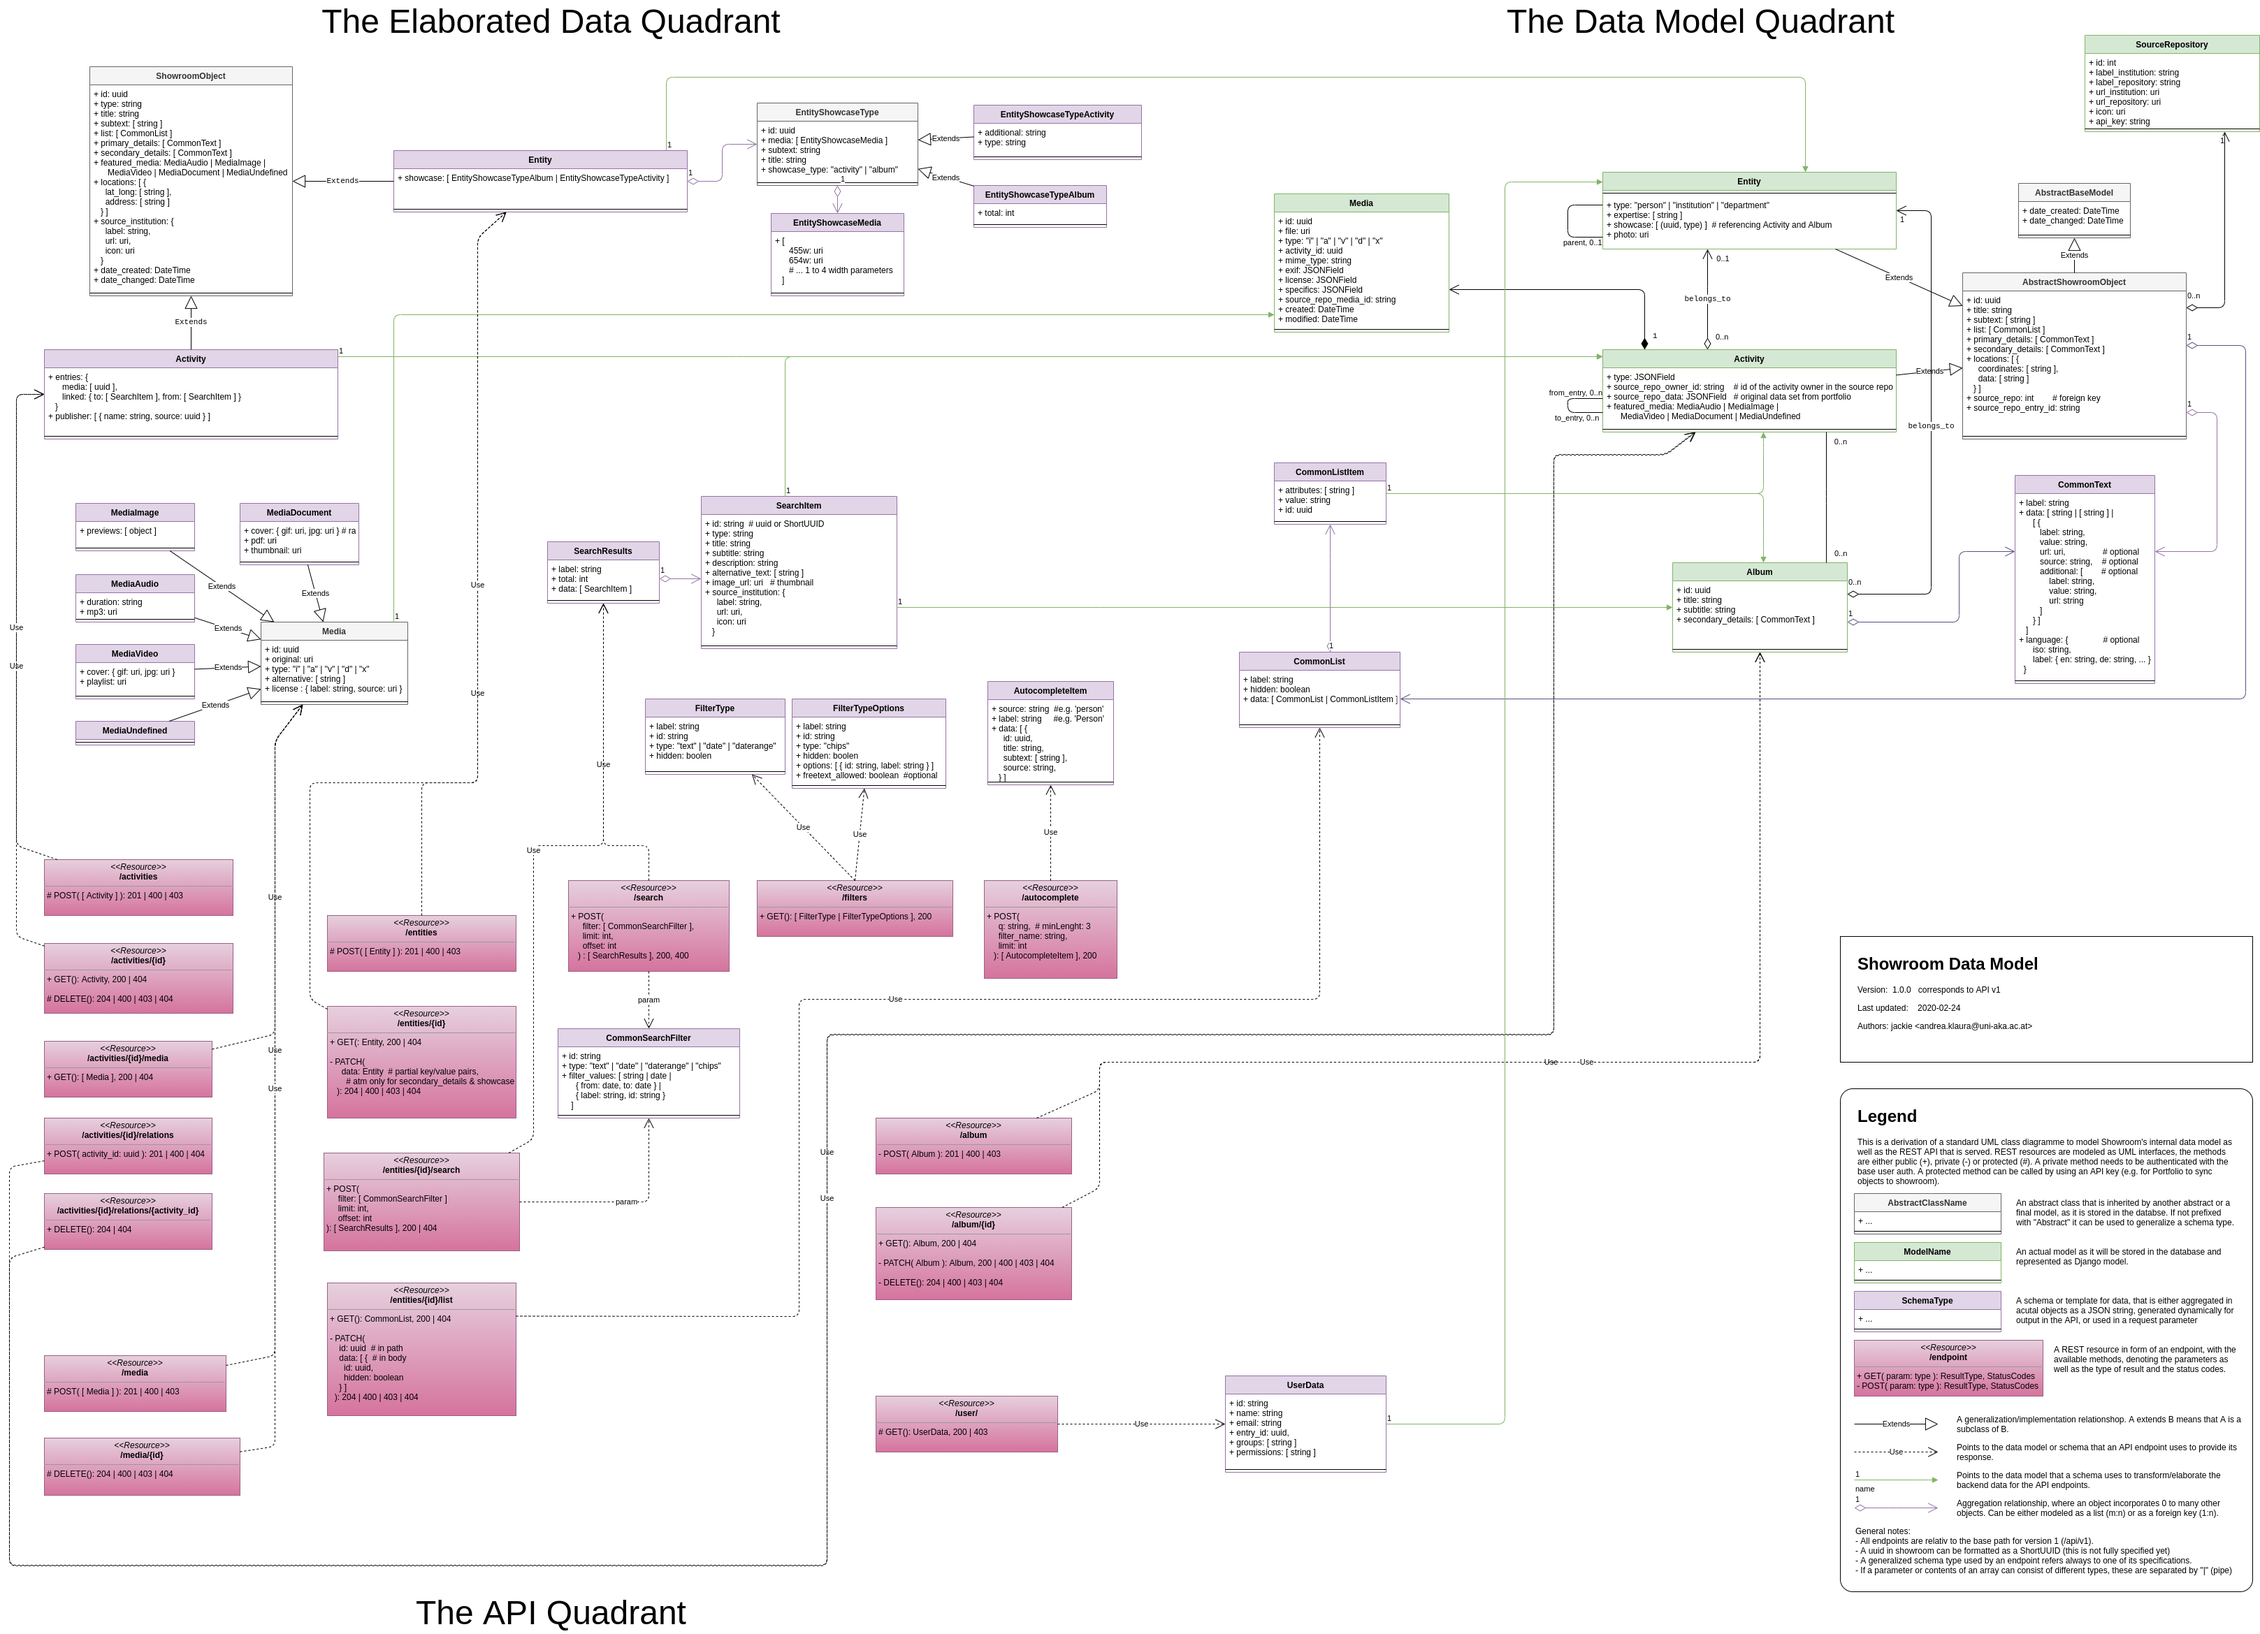
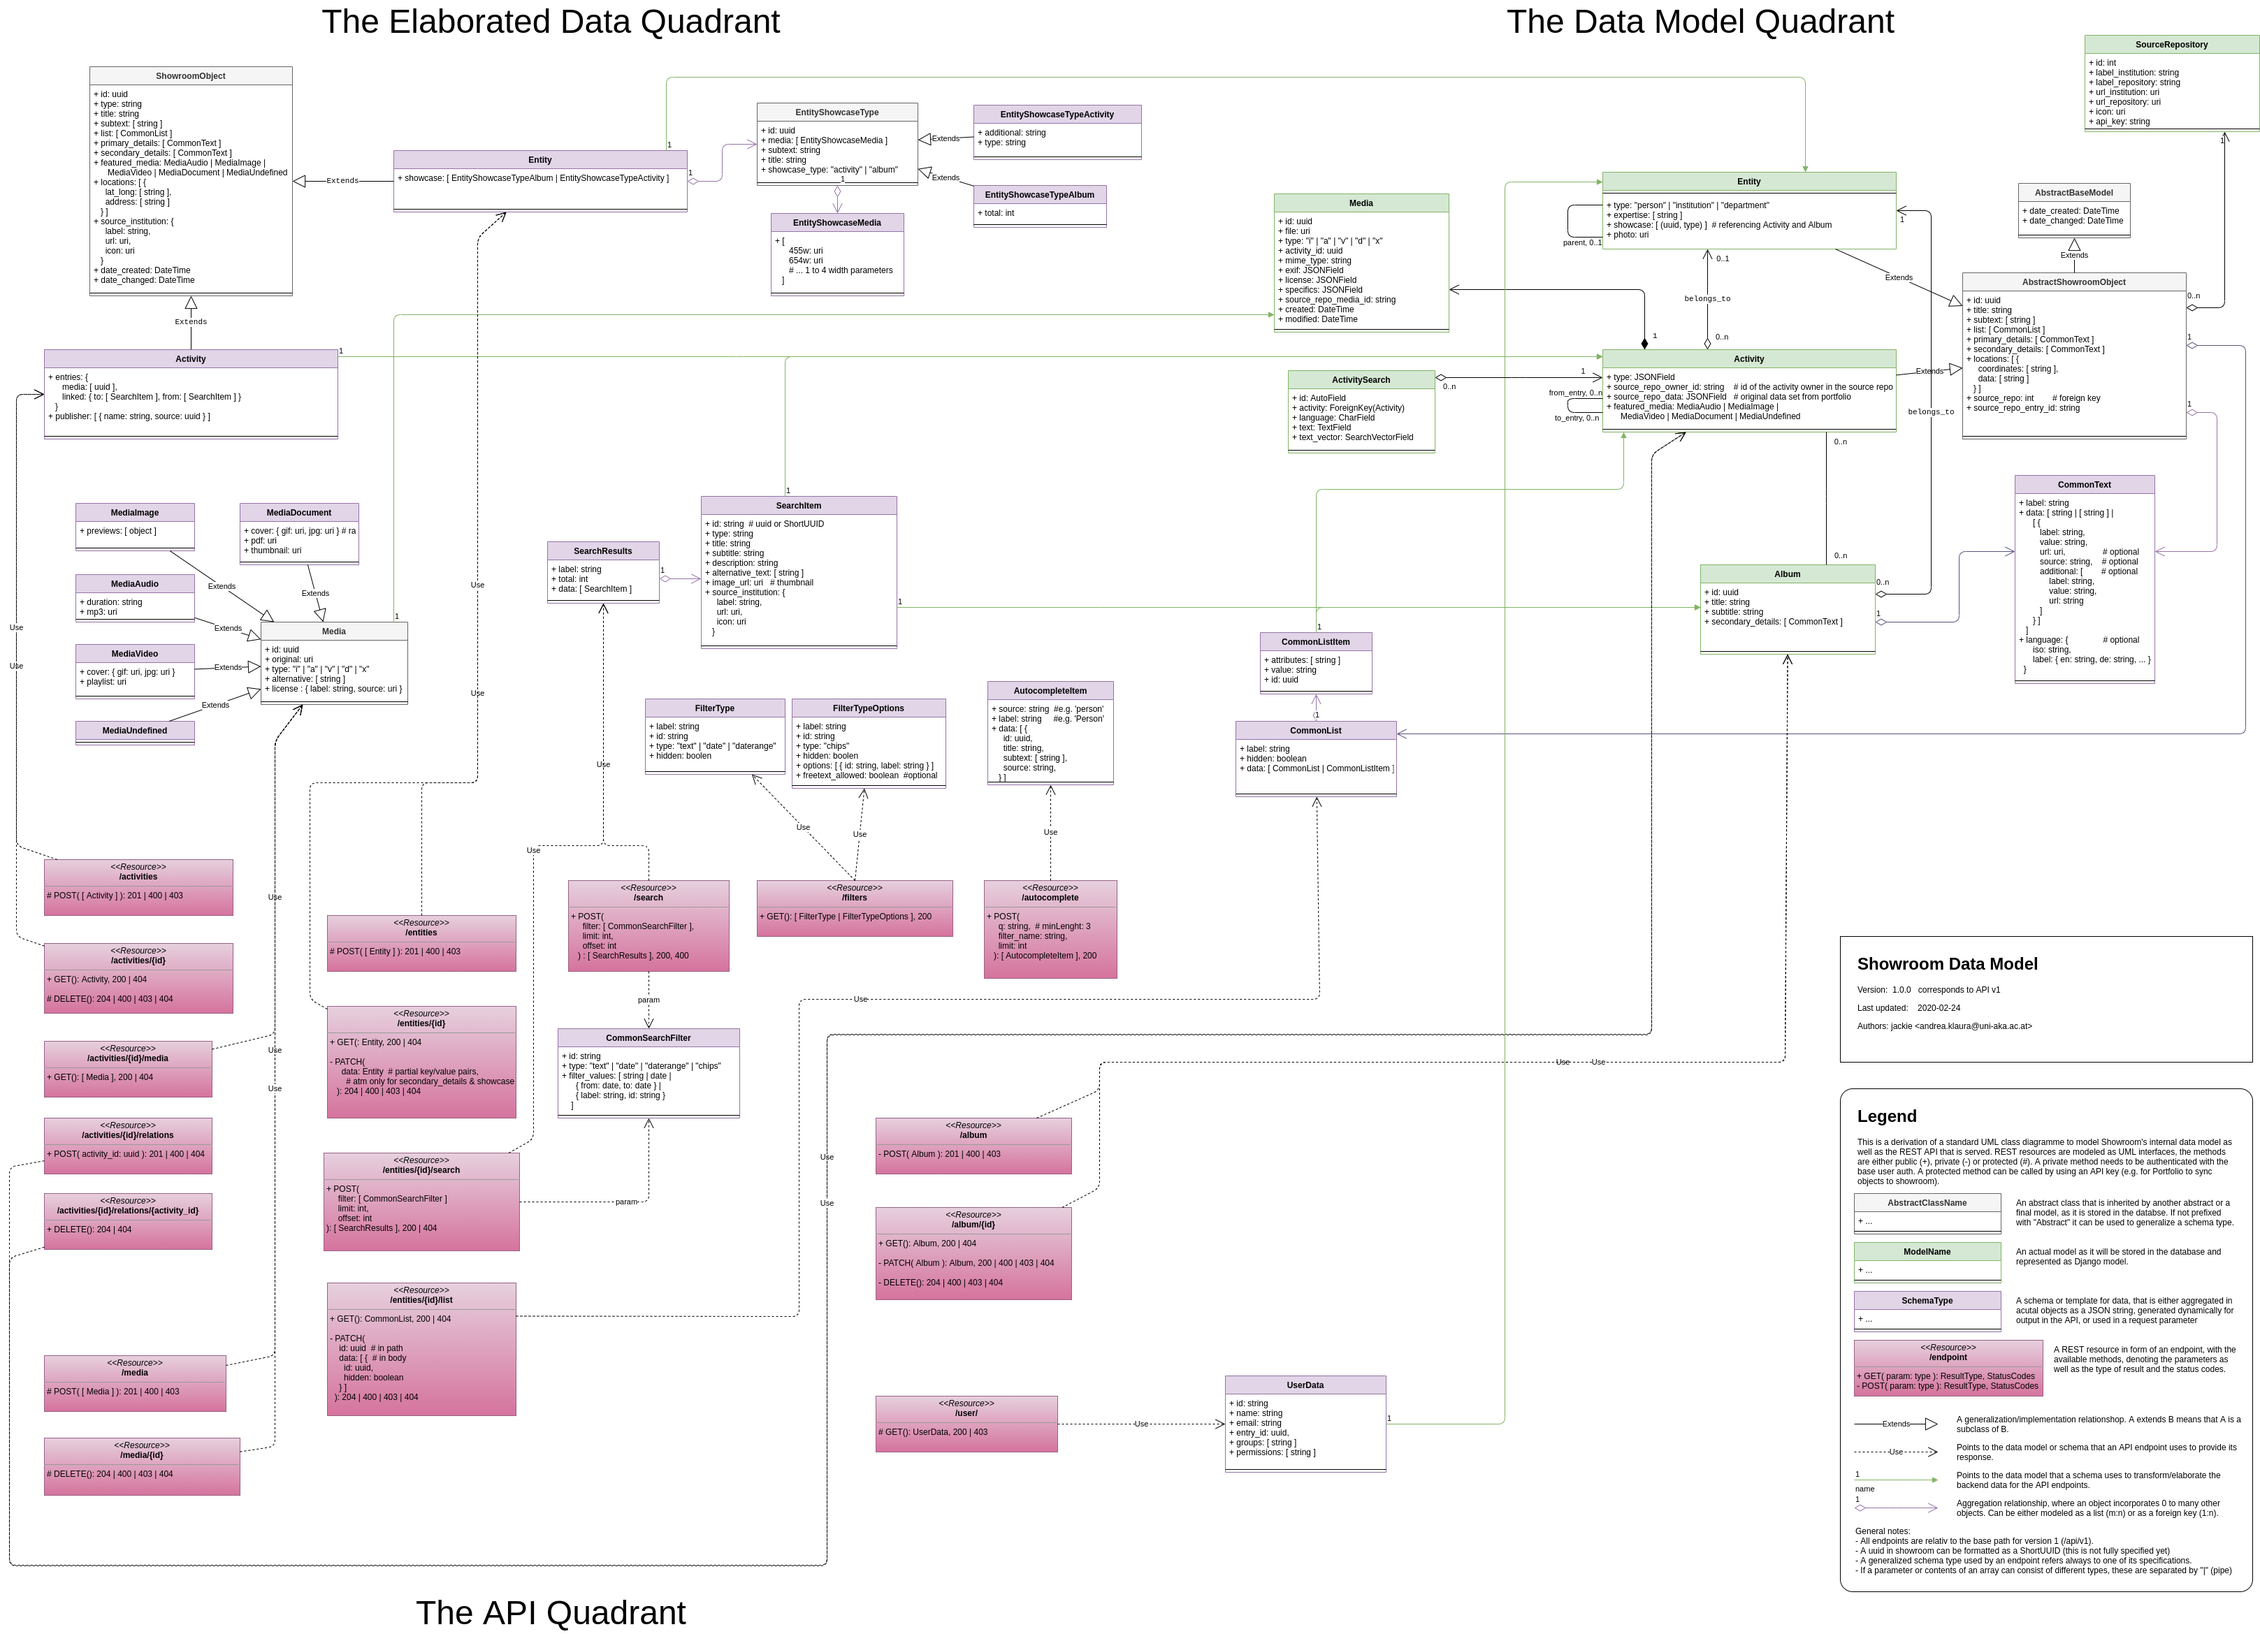
+ add ActivitySearch model and tsvector trigger

Changed region(s): [[0.5309, 0.3745, 0.6246, 0.4681], [0.5622, 0.2185, 0.6558, 0.3121], [0.7183, 0.3433, 0.8432, 0.4057]]

diff --git a/src/core/migrations/0015_auto_20210907_1645.py b/src/core/migrations/0015_auto_20210907_1645.py
@@ -1,0 +1,30 @@
+# Generated by Django 2.2.16 on 2021-09-07 14:45
+
+import django.contrib.postgres.indexes
+import django.contrib.postgres.search
+from django.db import migrations, models
+import django.db.models.deletion
+
+
+class Migration(migrations.Migration):
+
+    dependencies = [
+        ('core', '0014_activity_source_repo_data_text'),
+    ]
+
+    operations = [
+        migrations.CreateModel(
+            name='ActivitySearch',
+            fields=[
+                ('id', models.AutoField(primary_key=True, serialize=False)),
+                ('language', models.CharField(max_length=255)),
+                ('text', models.TextField(default='')),
+                ('text_vector', django.contrib.postgres.search.SearchVectorField(null=True)),
+                ('activity', models.ForeignKey(on_delete=django.db.models.deletion.CASCADE, to='core.Activity')),
+            ],
+        ),
+        migrations.AddIndex(
+            model_name='activitysearch',
+            index=django.contrib.postgres.indexes.GinIndex(fields=['text_vector'], name='core_activi_text_ve_024163_gin'),
+        ),
+    ]

diff --git a/src/core/migrations/0016_activity_search_trigger.py b/src/core/migrations/0016_activity_search_trigger.py
@@ -1,0 +1,31 @@
+# Generated by Django 2.2.16 on 2021-09-07 13:24
+
+from django.db import migrations
+
+
+class Migration(migrations.Migration):
+
+    dependencies = [
+        ('core', '0015_auto_20210907_1645'),
+    ]
+
+    operations = [
+        migrations.RunSQL(
+            sql='''
+              CREATE TRIGGER text_column_trigger
+              BEFORE INSERT OR UPDATE OF text
+              ON core_activitysearch
+              FOR EACH ROW EXECUTE PROCEDURE
+              tsvector_update_trigger(
+                text_vector, 'pg_catalog.simple', text
+              );
+    
+              UPDATE core_activitysearch SET text_vector = NULL;
+            ''',
+
+            reverse_sql='''
+              DROP TRIGGER IF EXISTS text_column_trigger
+              ON core_activitysearch;
+            '''
+        ),
+    ]

diff --git a/src/core/models.py b/src/core/models.py
@@ -1,4 +1,6 @@
 from django.contrib.postgres.fields import JSONField
+from django.contrib.postgres.indexes import GinIndex
+from django.contrib.postgres.search import SearchVectorField
 from django.db import models
 from django.db.models import Q
 
@@ -87,6 +89,17 @@ class Activity(AbstractShowroomObject):
 
     def __str__(self):
         return f'{self.title} (ID: {self.id})'
+
+
+class ActivitySearch(models.Model):
+    id = models.AutoField(primary_key=True)
+    activity = models.ForeignKey(Activity, on_delete=models.CASCADE)
+    language = models.CharField(max_length=255)
+    text = models.TextField(default='')
+    text_vector = SearchVectorField(null=True)
+
+    class Meta:
+        indexes = (GinIndex(fields=['text_vector']),)
 
 
 class Album(models.Model):
